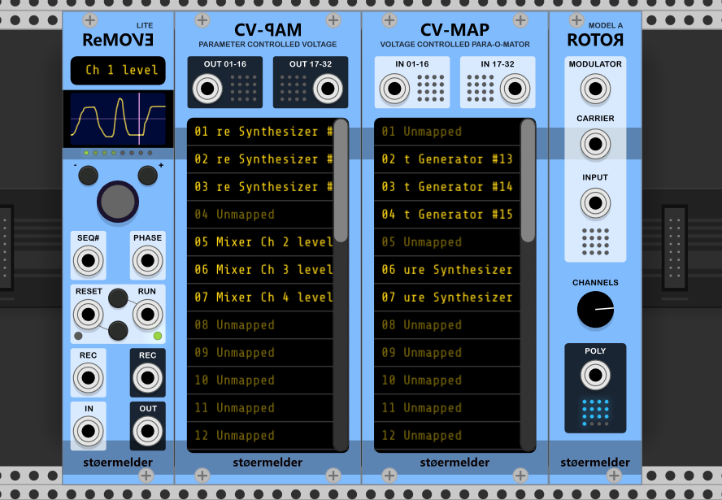
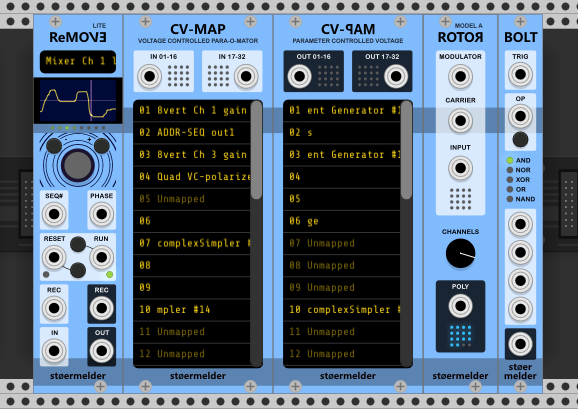
updated docs

diff --git a/CHANGELOG.md b/CHANGELOG.md
@@ -1,12 +1,13 @@
 ### 1.0.2 (in development)
 
 - Module ReMOVE Lite
-    - New module, allows recording of parameter (knob, switch or slider) automation ([docs](./docs/ReMove.md))
+    - New module, allows recording of parameter automation of knobs, switchs or sliders ([docs](./docs/ReMove.md))
 - Module BOLT
-    - New module, polyphonic modulateable logic functions ([docs](./docs/Bolt.md))
+    - New module, polyphonic modulateable boolean functions ([docs](./docs/Bolt.md))
 - Modules CV-MAP, CV-PAM
     - Added context menu option (on LED display) to locate and blink indicator for mapped slots
     - Added context menu option to disable text scrolling
+    - Added context menu option linking online manual
     - Improverd panels
     
 ### 1.0.0
